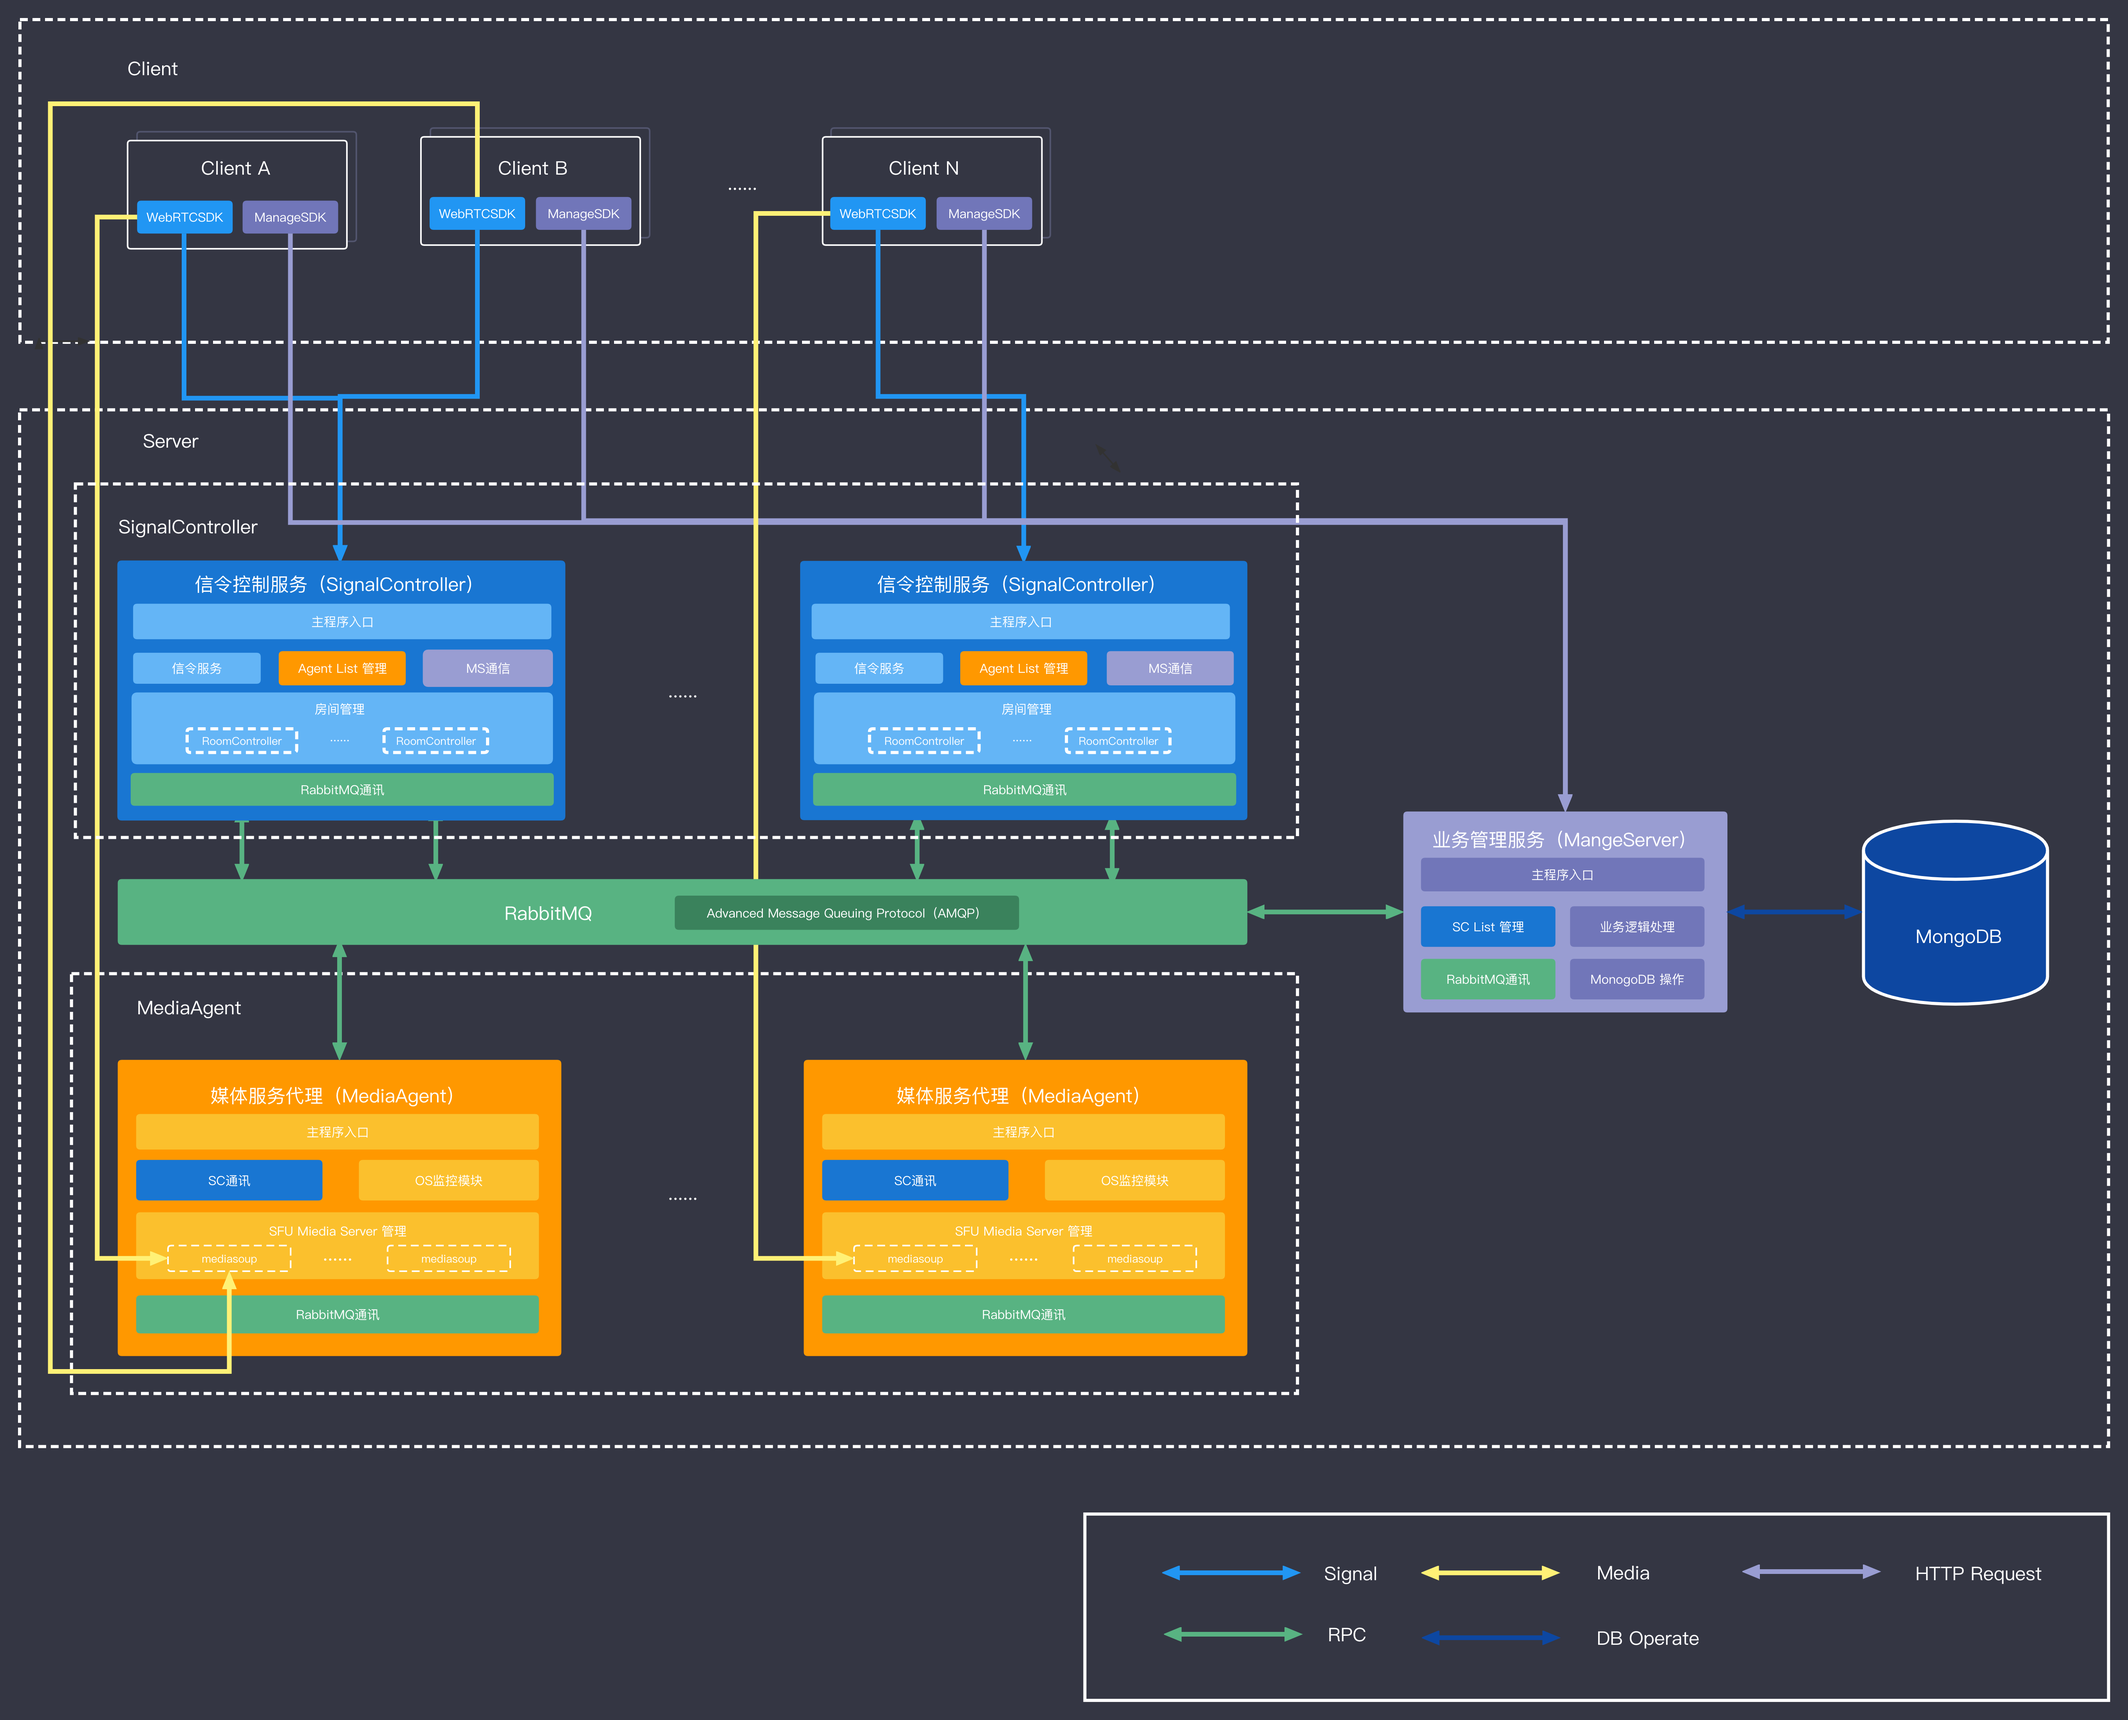
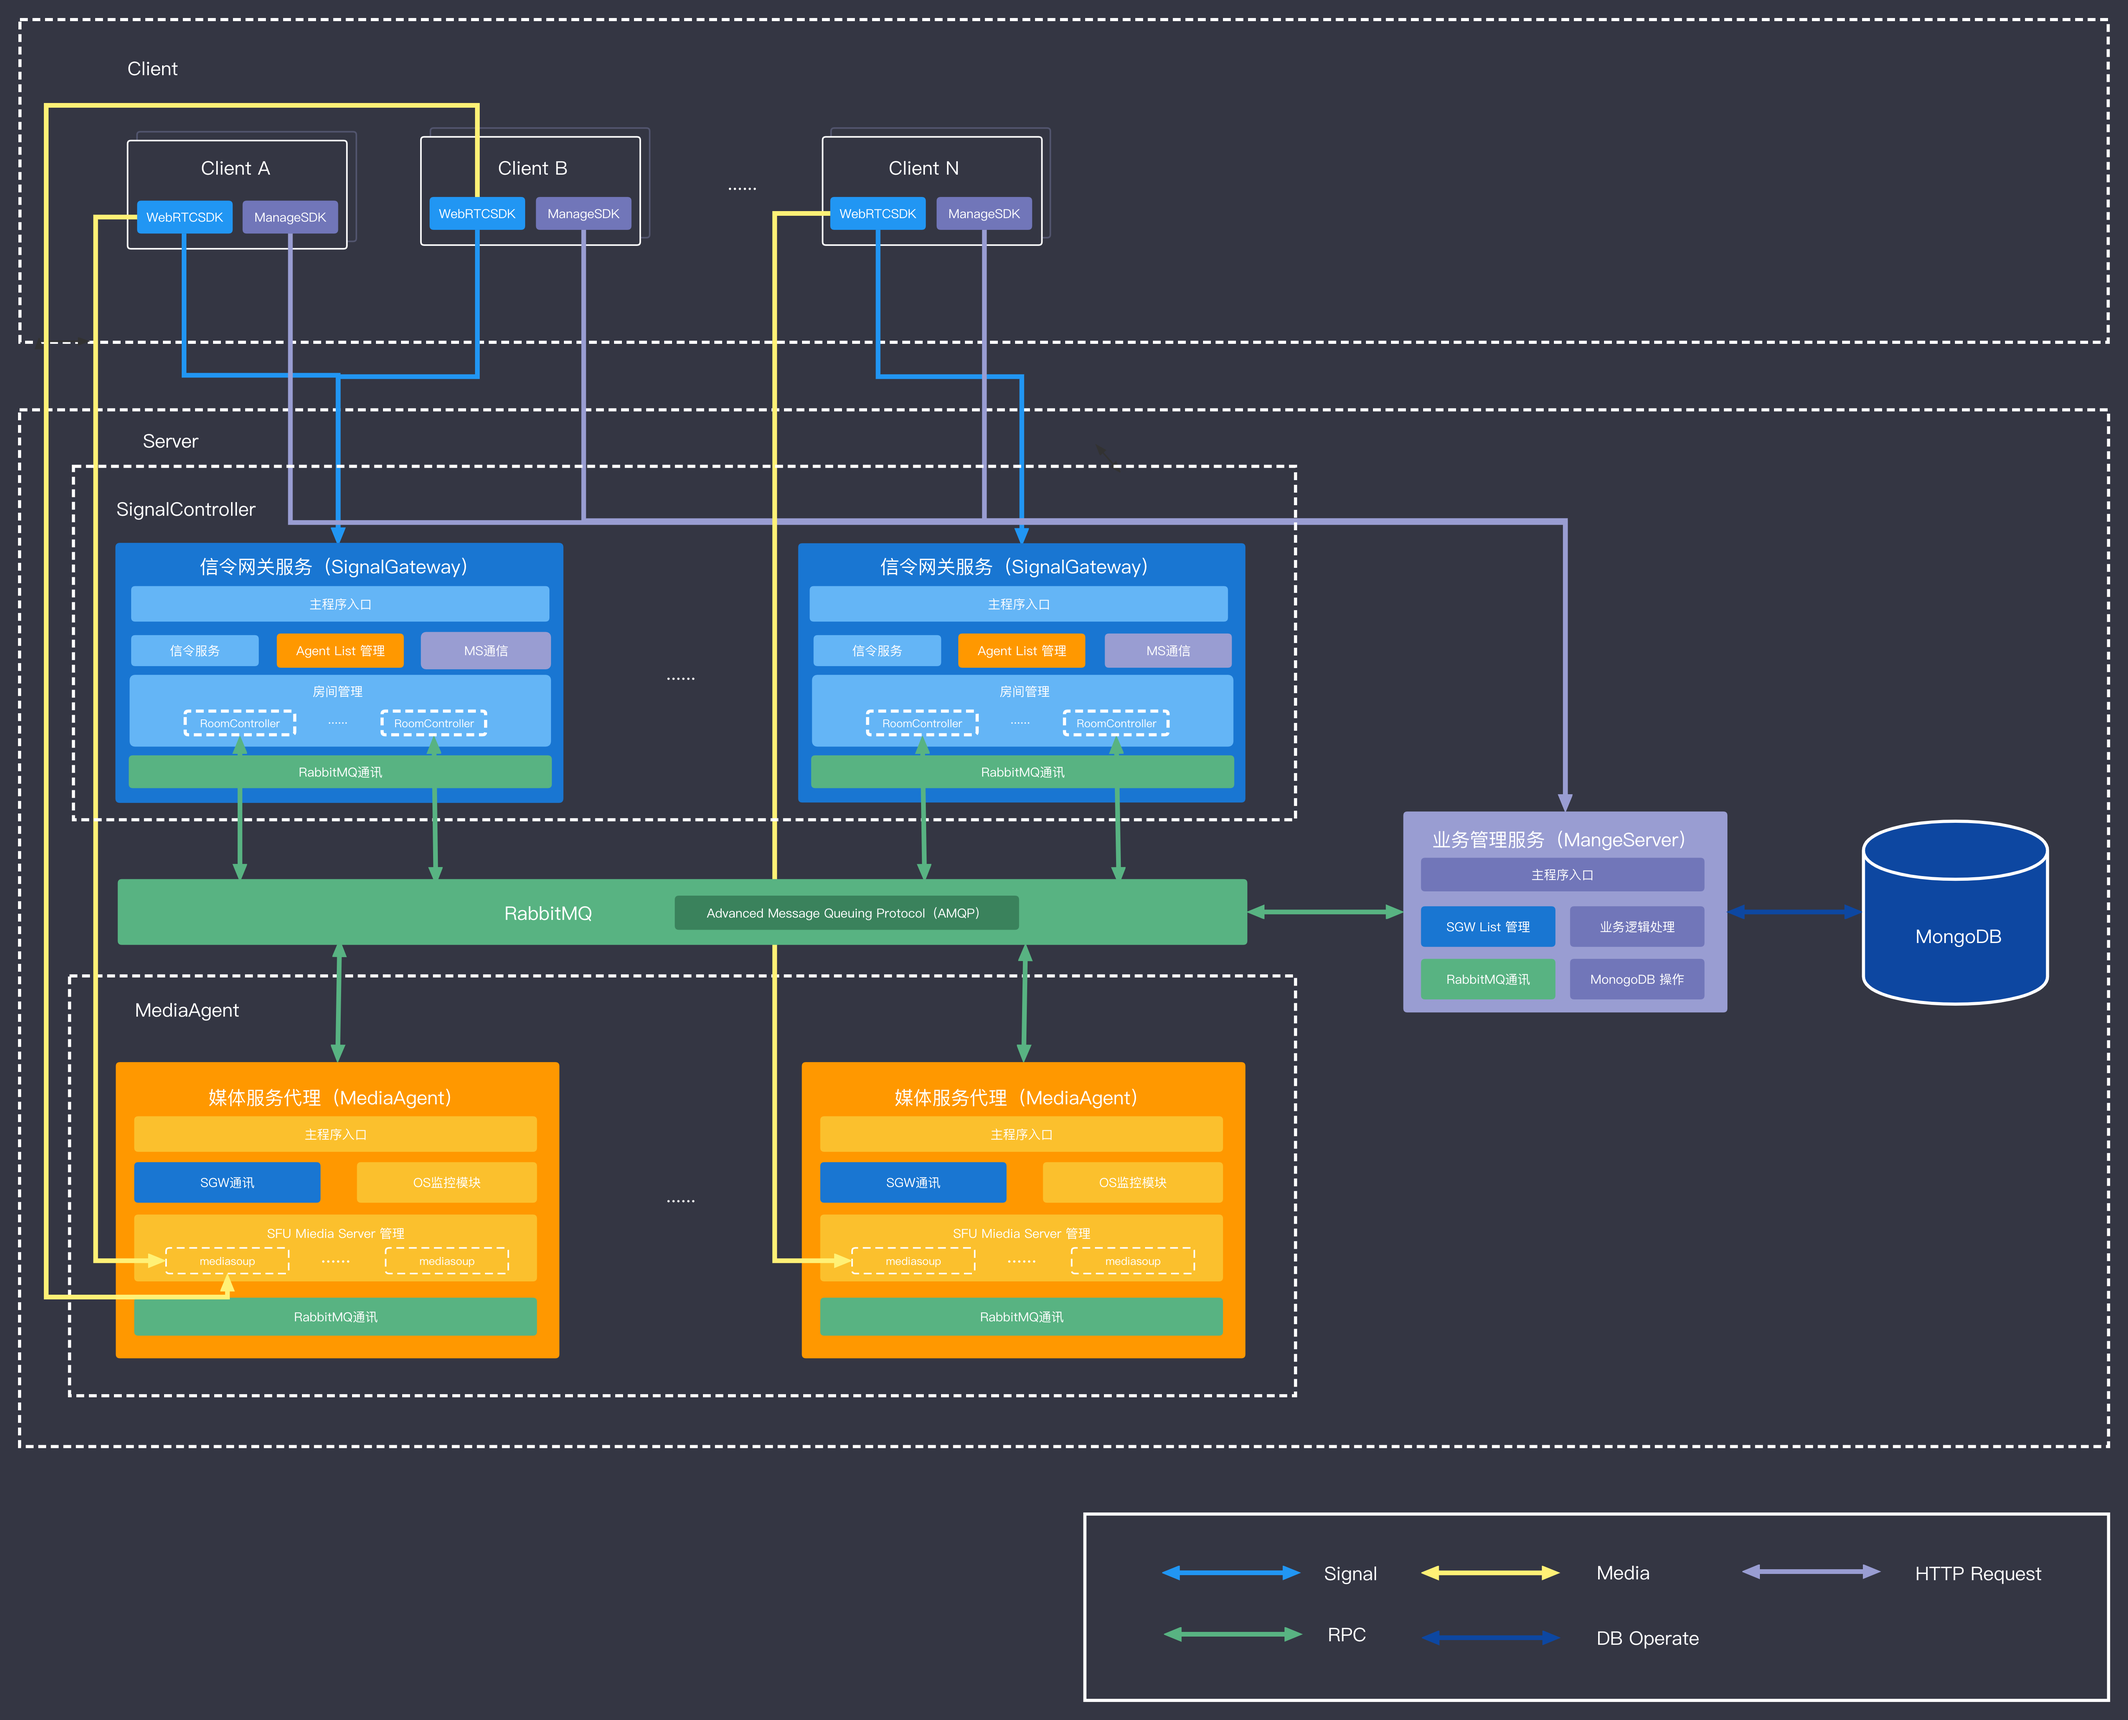
chore: 增加设计思路md

diff --git a/docs/设计思路.md b/docs/设计思路.md
@@ -1,0 +1,68 @@
+## MA的分配策略
+
+### 说明
+> * MA = MediaAgent, SGW = SignalGateway
+> * MA由SGW管理和调度，每个SGW都维护了当前集群中所有MA的列表
+> * MA的分配策略分为两种情况：**非级联模式**和**级联模式**
+
+#### 非级联模式
+* 在非级联模式下，一个房间的所有用户都在一个MA的相同SFU上
+* 具体分配到哪个MA上，默认的策略是根据每个MA的房间数量，最少的优先分配
+
+#### 级联模式
+* 级联模式是为了应对用户分布地域差异导致的延迟问题
+* 在级联模式下，SGW总是为用户分配一个网路距离最近的MA
+* 级联模式下，每个用户所在的MA可能都不一样，但是每个MA只会为一个房间分配同一个SFU，也就是说，如果同一个房间的两个用户分配到了相同的MA，那么TA们肯定在同一个SFU上
+* 房间级联模式的开启是在创建房间时传入参数mapolicy，设置房间是否开启SFU级联
+* SGW作为网关，存储了客户端的地址信息，它将信息同步给MA，每个MA通过计算PING值，反馈到SGW
+
+### 负载模式
+
+#### ROOM-BEST模式
+* 在ROOM-BEST模式下，根据每个MA的负载分配（优先分配最小负载的），在计算时还要考虑每个MA是否处于断链容忍状态，处于这种状态的MA，不应该参与服务
+* 由于在ROOM-BEST模式下，一个房间都属于一个MA上的一个Router，如果该MA失联，可能会出现Client未主动断开与SGW的连接的情况，导致SGW上一直保存着该房间的实例。这样后续用户进入房间时，由于房间已经存在，就会继续使用该MA，必然导致服务不可用
+* 解决方案：使用Client对SGW中负责管理MA的实例进行注册监听事件，当要删除一个MA时抛出事件，Client对比maid和自己当前所在的maid，如果相同，则从SGW端主动退出，关闭socket
+
+#### TTL-BEST模式
+* TTL-BEST模式下，根据每个MA的PING值进行分配（优先分配PING值最小的）。由于会测试PING值，对于断连的MA本身就不会收到回复，自然不会参与服务
+
+
+
+## SC的分配策略
+* MA = MediaAgent, SGW = SignalGateway, MS = MangeServer
+* SWG由MS进行管理和调度，SGW在启动后到MS中注册
+* 当用户申请token时，MS为用户分配一个SGW，默认的分配策略是随机的
+* 同一个房间的用户一定会被分配到同一个SGW上
+
+## SFU的分配策略
+* SFU指的是Mediasoup的worker子进程，程序启动后会根据节点服务器的CPU数量启动相应数量的SFU，以实现对资源的最大化利用
+* MA维护当前节点的SFU列表，当新的逻辑房间创建时，SGW请求到MA为房间分配一个SFU，MA的策略是循环分配，保证每个SFU上的房间数量均衡，但是不能保证负载均衡
+
+## SGW <---> MA 如何保持数据的同步
+> 同步主要是指room、client状态同步
+
+### ROOM
+* room在SGW的创建时机是第一个用户请求进入房间时
+* room在MA的创建时机是SGW room创建的时候，每个房间都需要关联一个或者多个MA，当创建房间时首先会创建MA room
+* room在SGW的删除时机是最后一个用户退出时
+* room在MA的删除时机也是最后一个用户退出时，SGW在用户退出时会广播消息，通知MA删除对应的用户，当发现房间内用户为空，则删除房间
+
+### client
+* client在SGW的创建时机是token事件处理后
+* client在MA的创建时机是处理用户的getRouterRtpCapabilities事件
+
+## 限流
+
+### MS限流
+* 所有客户端在连接进系统的第一步是到MS获取token，所以MS的HTTP接口是作为第一级限流
+* MS的限流分为两部分，全局的QPS限制和针对单个IP地址的QPS限制
+
+#### 全局QPS
+* 全局QPS限制整个MS集群对外的并发数量，默认数值为1000，超过1000部分直接回复错误
+* 全局QPS可以开启队列，当开启队列时，对于超出1000的部分入队列
+
+#### 单个用户QPS
+* 单个用户QPS限制单个IP地址在单位时间内的请求次数，超过直接回复错误
+
+### SGW限流
+* SGW作为网关，针对SGW的限流是本地的，也就是我们只限制单个SGW的接入QPS,因为用户来连接SGW时MS已经将该用户和该SGW绑定， 为了避免SGW之间的相互影响，每个SGW的QPS计数都是存储在本地
